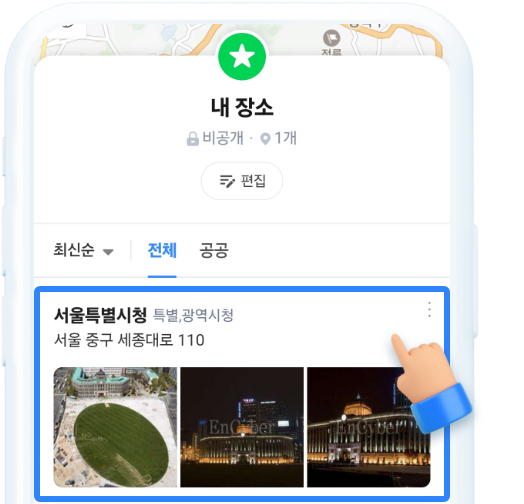
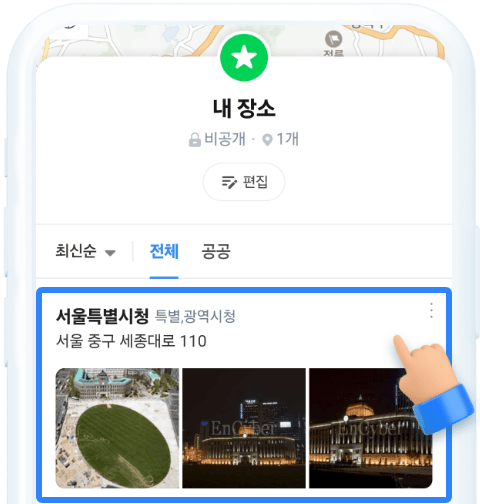
포미션6

diff --git a/work/permission_guide/css/common.css b/work/permission_guide/css/common.css
@@ -4552,7 +4552,7 @@ Date   : 2024.11.12
   max-width: 240px;
   height: auto;
   margin: 20px 0px 0 0;
-  aspect-ratio: 1/1;
+  aspect-ratio: 8/9;
 }
 .wrap.pm_blogURL .content section.sec_example .cont ul li:nth-child(2) {
   margin: 30px 0 0 0;
@@ -4570,6 +4570,7 @@ Date   : 2024.11.12
   height: 240px;
   background-size: contain;
   display: block;
+  width: calc(100% - 40px);
   max-width: 240px;
   height: auto;
   margin: 20px 0px 0 0;
@@ -4588,7 +4589,8 @@ Date   : 2024.11.12
   height: 252px;
   background-size: contain;
   display: block;
-  max-width: 262px;
+  width: calc(100% - 40px);
+  max-width: 240px;
   height: auto;
   margin: 20px 0px 0 0;
   aspect-ratio: 1/1;
@@ -4606,6 +4608,7 @@ Date   : 2024.11.12
   height: 240px;
   background-size: contain;
   display: block;
+  width: calc(100% - 40px);
   max-width: 240px;
   height: auto;
   margin: 20px 0px 0 0;
@@ -4635,6 +4638,7 @@ Date   : 2024.11.12
   height: 240px;
   background-size: contain;
   display: block;
+  width: calc(100% - 40px);
   max-width: 240px;
   height: auto;
   margin: 20px 0px 0 0;
@@ -5259,6 +5263,7 @@ Date   : 2024.11.12
   height: 240px;
   background-size: contain;
   display: block;
+  width: calc(100% - 40px);
   max-width: 240px;
   height: auto;
   margin: 20px 0px 0 0;
@@ -5288,6 +5293,7 @@ Date   : 2024.11.12
   height: 240px;
   background-size: contain;
   display: block;
+  width: calc(100% - 40px);
   max-width: 240px;
   height: auto;
   margin: 20px 0px 0 0;
@@ -5309,13 +5315,11 @@ Date   : 2024.11.12
   height: 240px;
   background-size: contain;
   display: block;
-  width: 100%;
+  width: calc(100% - 40px);
   max-width: 240px;
-  background-position: 0 0;
-  width: 100%;
+  height: auto;
   margin: 20px 0px 0 0;
   aspect-ratio: 1/1;
-  height: auto;
 }
 .wrap.pm_placeURL footer {
   position: sticky;
